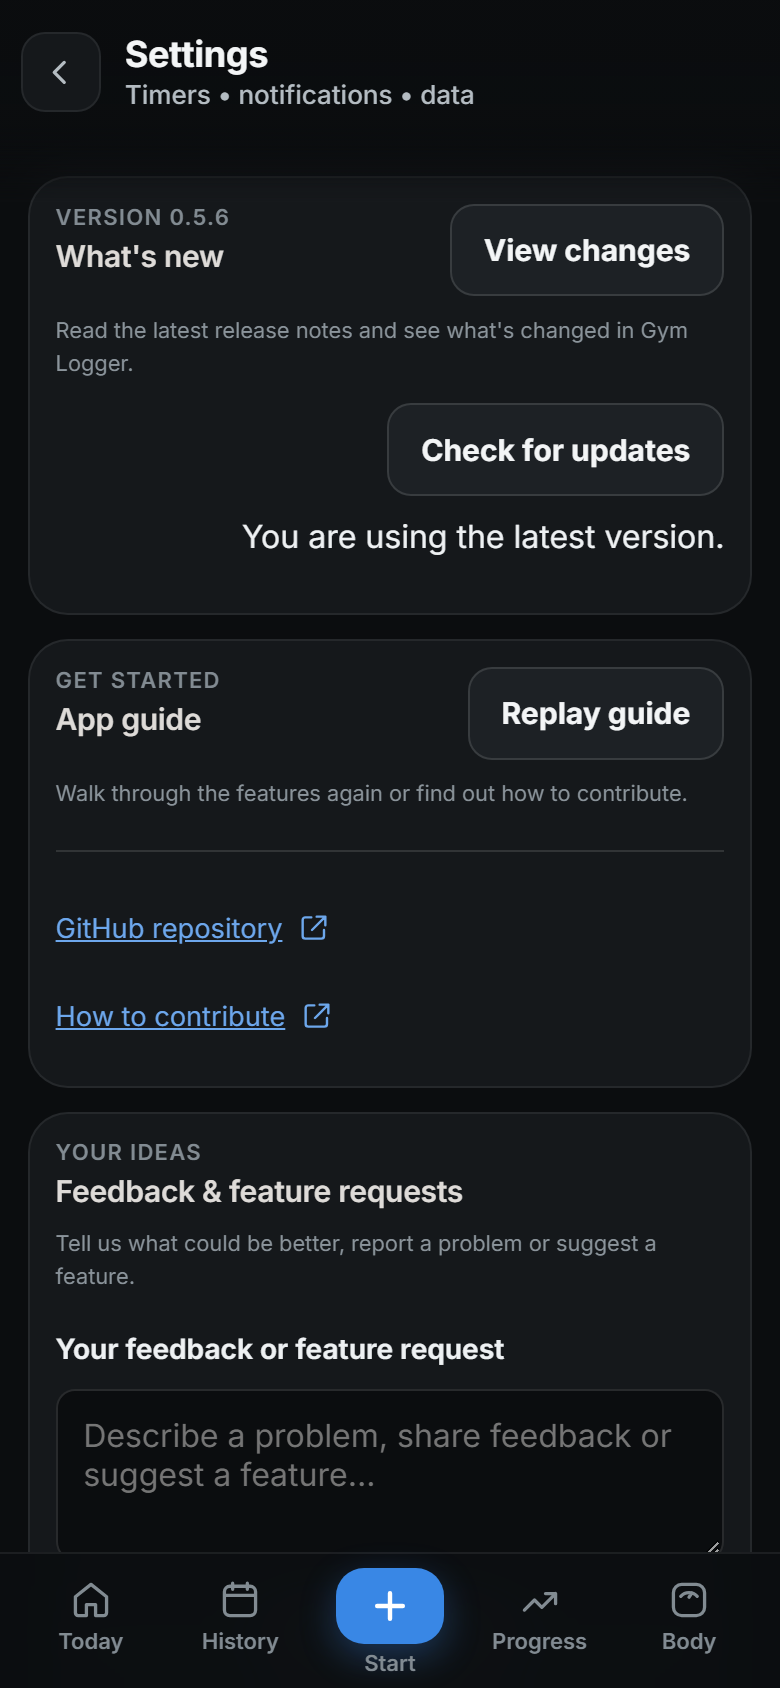
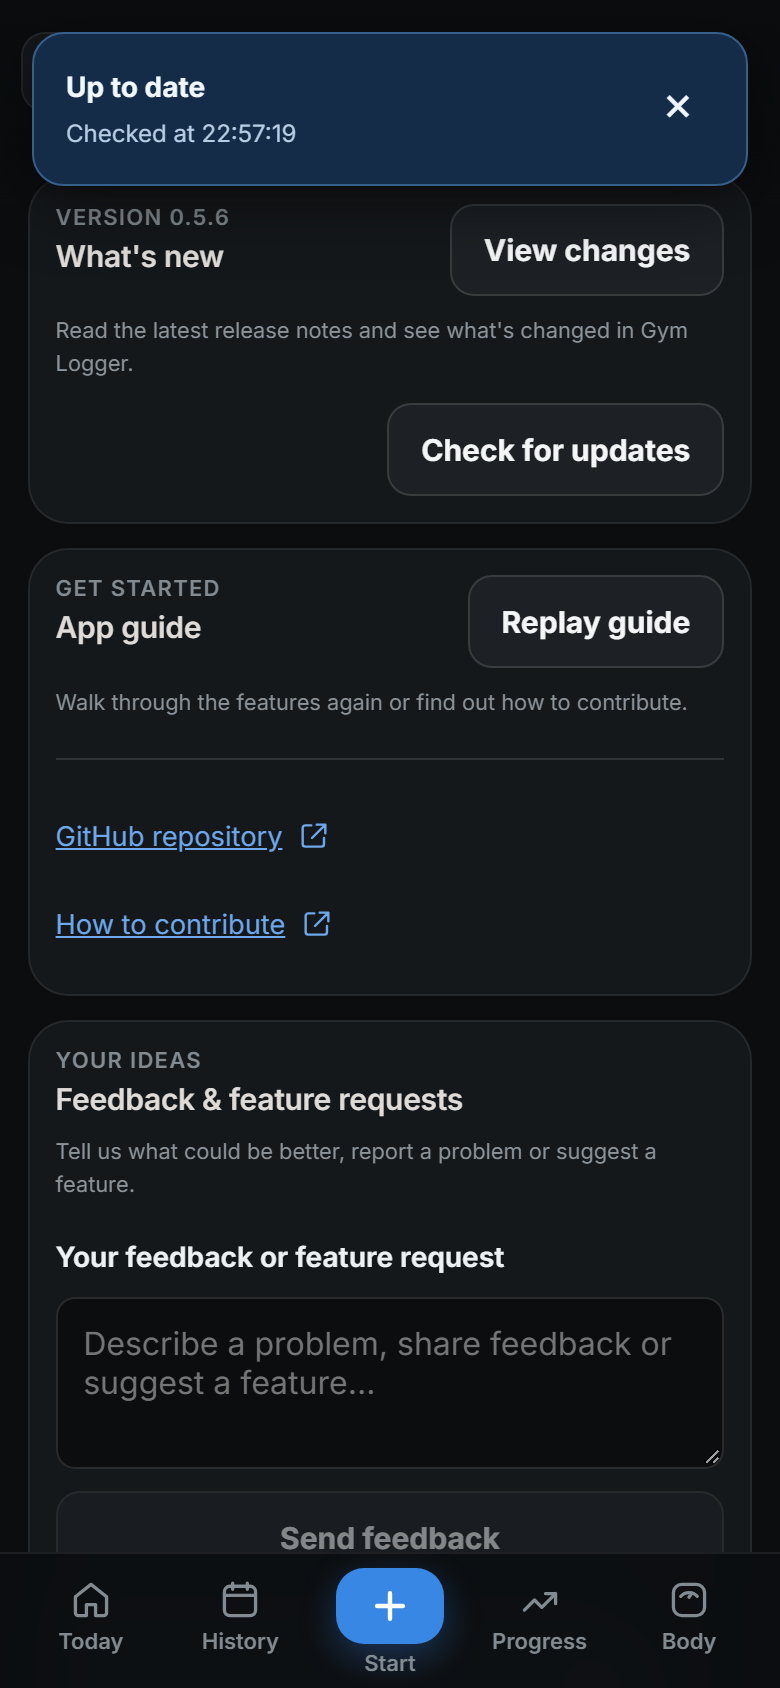
Show timestamped update-check results in a temporary popup

diff --git a/frontend/src/AppUpdateCheck.test.tsx b/frontend/src/AppUpdateCheck.test.tsx
@@ -1,0 +1,115 @@
+// @vitest-environment jsdom
+import { act } from 'react';
+import { createRoot, type Root } from 'react-dom/client';
+import { afterEach, beforeEach, describe, expect, it, vi } from 'vitest';
+import { AppUpdateCheck } from './AppUpdateCheck';
+import type { UpdateCheckStatus } from './useAppUpdates';
+
+let root: Root;
+let container: HTMLDivElement;
+let status: UpdateCheckStatus;
+let available: boolean;
+
+const onCheck = vi.fn(() => {
+  status = 'checking';
+  render();
+});
+
+function render() {
+  root.render(<AppUpdateCheck available={available} status={status} onCheck={onCheck} />);
+}
+
+async function check() {
+  await act(async () => container.querySelector('button')!.click());
+}
+
+async function finish(result: UpdateCheckStatus) {
+  status = result;
+  available = result === 'available';
+  await act(async () => render());
+}
+
+beforeEach(async () => {
+  vi.useFakeTimers();
+  vi.setSystemTime(new Date('2026-10-15T12:00:00Z'));
+  vi.stubGlobal('IS_REACT_ACT_ENVIRONMENT', true);
+  onCheck.mockClear();
+  status = 'idle';
+  available = false;
+  container = document.createElement('div');
+  document.body.append(container);
+  root = createRoot(container);
+  await act(async () => render());
+});
+
+afterEach(async () => {
+  await act(async () => root.unmount());
+  container.remove();
+  vi.useRealTimers();
+  vi.unstubAllGlobals();
+});
+
+describe('update check notification', () => {
+  it('shows a timestamp after completion, then disappears without inline status space', async () => {
+    expect(document.querySelector('[role="status"]')).toBeNull();
+    await check();
+    expect(onCheck).toHaveBeenCalledOnce();
+    expect(container.querySelector('button')!.disabled).toBe(true);
+    expect(document.querySelector('[role="status"]')).toBeNull();
+
+    await finish('current');
+    expect(document.querySelector('[role="status"]')!.textContent).toContain('Up to date');
+    expect(document.querySelector('time')!.dateTime).toBe('2026-10-15T12:00:00.000Z');
+    expect(document.querySelector('time')!.textContent).toContain('Checked at');
+    expect(container.querySelector('[role="status"]')).toBeNull();
+    expect(container.querySelector('p')).toBeNull();
+
+    await act(async () => vi.advanceTimersByTime(5999));
+    expect(document.querySelector('[role="status"]')).not.toBeNull();
+    await act(async () => vi.advanceTimersByTime(1));
+    expect(document.querySelector('[role="status"]')).toBeNull();
+    expect(container.textContent).toBe('Check for updates');
+  });
+
+  it('gives each repeated check a fresh timestamp and full notification duration', async () => {
+    await check();
+    await finish('current');
+    await act(async () => vi.advanceTimersByTime(4000));
+    await check();
+    expect(document.querySelector('[role="status"]')).toBeNull();
+    await finish('current');
+    expect(document.querySelector('time')!.dateTime).toBe('2026-10-15T12:00:04.000Z');
+    await act(async () => vi.advanceTimersByTime(2000));
+    expect(document.querySelector('[role="status"]')).not.toBeNull();
+    await act(async () => vi.advanceTimersByTime(4000));
+    expect(document.querySelector('[role="status"]')).toBeNull();
+  });
+
+  it.each([
+    ['available', 'Update available. Use the refresh arrow above'],
+    ['error', 'Could not check for updates. Check your connection and try again.'],
+  ] as const)('preserves %s feedback in a dismissible popup', async (result, message) => {
+    await check();
+    await finish(result);
+    const notification = document.querySelector('[role="status"]')!;
+    expect(notification.textContent).toContain(message);
+    expect(notification.textContent).toContain(result === 'error' ? 'Attempted at' : 'Checked at');
+    expect(notification.classList.contains('has-update')).toBe(result === 'available');
+    await act(async () => (notification.querySelector('button') as HTMLButtonElement).click());
+    expect(document.querySelector('[role="status"]')).toBeNull();
+    expect(vi.getTimerCount()).toBe(0);
+  });
+
+  it('does not replay an old result when Settings opens', async () => {
+    await finish('current');
+    expect(document.querySelector('[role="status"]')).toBeNull();
+  });
+
+  it('cleans up its popup and timer when leaving Settings', async () => {
+    await check();
+    await finish('current');
+    await act(async () => root.render(null));
+    expect(document.querySelector('[role="status"]')).toBeNull();
+    expect(vi.getTimerCount()).toBe(0);
+  });
+});

diff --git a/frontend/src/AppUpdateCheck.tsx b/frontend/src/AppUpdateCheck.tsx
@@ -1,4 +1,8 @@
+import { useEffect, useRef, useState } from 'react';
+import { createPortal } from 'react-dom';
 import type { UpdateCheckStatus } from './useAppUpdates';
+
+const FEEDBACK_MS = 6000;
 
 export function AppUpdateCheck({
   available,
@@ -9,25 +13,77 @@ export function AppUpdateCheck({
   status: UpdateCheckStatus;
   onCheck: () => void;
 }) {
-  const message =
-    status === 'error'
-      ? 'Could not check for updates. Check your connection and try again.'
-      : available
-        ? 'An update is available. Use the refresh arrow above when you are ready.'
-        : status === 'current'
-          ? 'You are using the latest version.'
-          : null;
+  const requested = useRef(false);
+  const [feedback, setFeedback] = useState<{
+    message: string;
+    checkedAt: Date;
+    failed: boolean;
+  } | null>(null);
+
+  useEffect(() => {
+    if (!requested.current || status === 'idle' || status === 'checking') return;
+    requested.current = false;
+    setFeedback({
+      message:
+        status === 'error'
+          ? 'Could not check for updates. Check your connection and try again.'
+          : available
+            ? 'Update available. Use the refresh arrow above when you are ready.'
+            : 'Up to date',
+      checkedAt: new Date(),
+      failed: status === 'error',
+    });
+  }, [status, available]);
+
+  useEffect(() => {
+    if (!feedback) return;
+    const timer = window.setTimeout(() => setFeedback(null), FEEDBACK_MS);
+    return () => window.clearTimeout(timer);
+  }, [feedback]);
+
   return (
     <div className="release-update-check">
       <button
         type="button"
         className="profile-secondary release-settings-action"
         disabled={status === 'checking'}
-        onClick={onCheck}
+        onClick={() => {
+          requested.current = true;
+          setFeedback(null);
+          onCheck();
+        }}
       >
         {status === 'checking' ? 'Checking for updates…' : 'Check for updates'}
       </button>
-      <p role="status">{message}</p>
+      {feedback &&
+        createPortal(
+          <aside
+            className={`release-update-toast${available ? ' has-update' : ''}`}
+            role="status"
+            aria-live="polite"
+            aria-atomic="true"
+          >
+            <div>
+              <strong>{feedback.message}</strong>
+              <time dateTime={feedback.checkedAt.toISOString()}>
+                {feedback.failed ? 'Attempted at ' : 'Checked at '}
+                {feedback.checkedAt.toLocaleTimeString([], {
+                  hour: 'numeric',
+                  minute: '2-digit',
+                  second: '2-digit',
+                })}
+              </time>
+            </div>
+            <button
+              type="button"
+              aria-label="Dismiss update check notification"
+              onClick={() => setFeedback(null)}
+            >
+              ×
+            </button>
+          </aside>,
+          document.body,
+        )}
     </div>
   );
 }

diff --git a/frontend/src/releaseAnnouncement.css b/frontend/src/releaseAnnouncement.css
@@ -158,6 +158,54 @@
   margin-top: 0.75rem;
 }
 
-.release-update-check p {
-  margin-top: 0.65rem;
+.release-update-toast {
+  position: fixed;
+  z-index: 120;
+  top: max(1rem, env(safe-area-inset-top));
+  left: 50%;
+  transform: translateX(-50%);
+  display: flex;
+  align-items: flex-start;
+  gap: 0.75rem;
+  width: min(24rem, calc(100vw - 2rem));
+  padding: 0.75rem;
+  border: 1px solid #365f8c;
+  border-radius: 1rem;
+  background: #142c47;
+  color: #f0f7ff;
+  box-shadow: 0 0.5rem 2rem #0008;
+}
+
+.release-update-toast.has-update {
+  top: calc(5.5rem + env(safe-area-inset-top));
+}
+
+.release-update-toast > div {
+  flex: 1;
+  min-width: 0;
+  padding: 0.25rem;
+}
+
+.release-update-toast strong,
+.release-update-toast time {
+  display: block;
+  font-size: 0.875rem;
+  line-height: 1.5;
+}
+
+.release-update-toast time {
+  margin-top: 0.25rem;
+  color: #b9cee5;
+  font-size: 0.75rem;
+}
+
+.release-update-toast button {
+  flex-shrink: 0;
+  width: 2.75rem;
+  height: 2.75rem;
+  border: 0;
+  border-radius: 0.5rem;
+  background: transparent;
+  color: inherit;
+  font-size: 1.5rem;
 }

diff --git a/docs/RELEASE-NOTES.md b/docs/RELEASE-NOTES.md
@@ -4,10 +4,14 @@
 
 - **Settings > What's new** places **Check for updates** on the right, aligned
   with **View changes** and **Replay guide**.
+- Checking for updates shows a timestamped notification for six seconds, with a
+  dismiss button. Results no longer add persistent text or empty space to the
+  Settings card. Available updates still have their refresh notification above.
 
-<img src="screenshots/releases/0.5.6-settings-button-alignment.png" alt="Settings shows Check for updates aligned to the right edge of View changes and Replay guide." width="390">
+<img src="screenshots/releases/0.5.6-settings-button-alignment.png" alt="A brief Up to date notification includes the check time above Settings, with Check for updates aligned to the other buttons and no inline status text." width="390">
 
-Settings actions share the same right edge. Captured with an isolated sample account.
+Settings actions share the same right edge, while results appear temporarily above
+the page. Captured with an isolated sample account.
 
 ## 0.5.5
 
